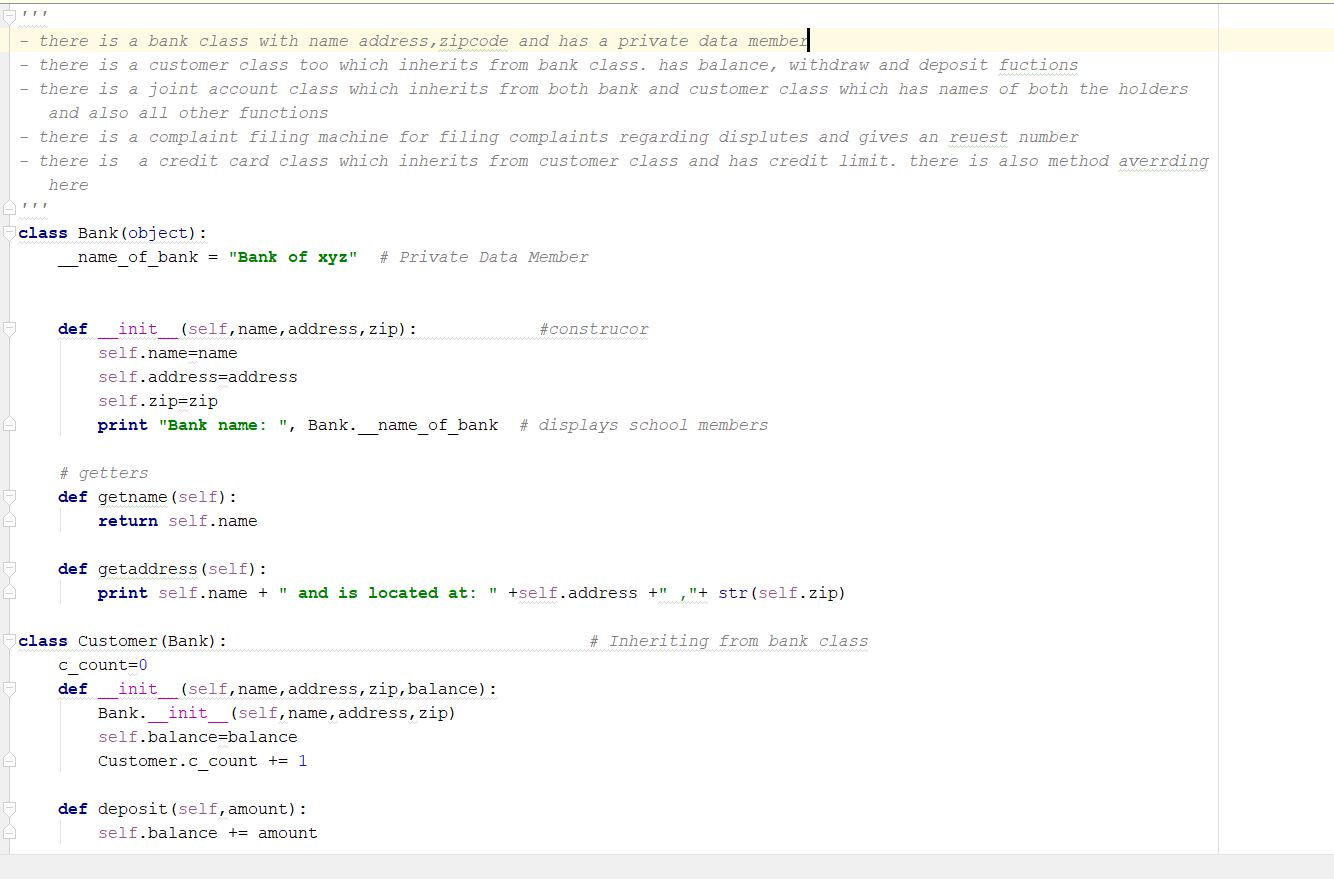
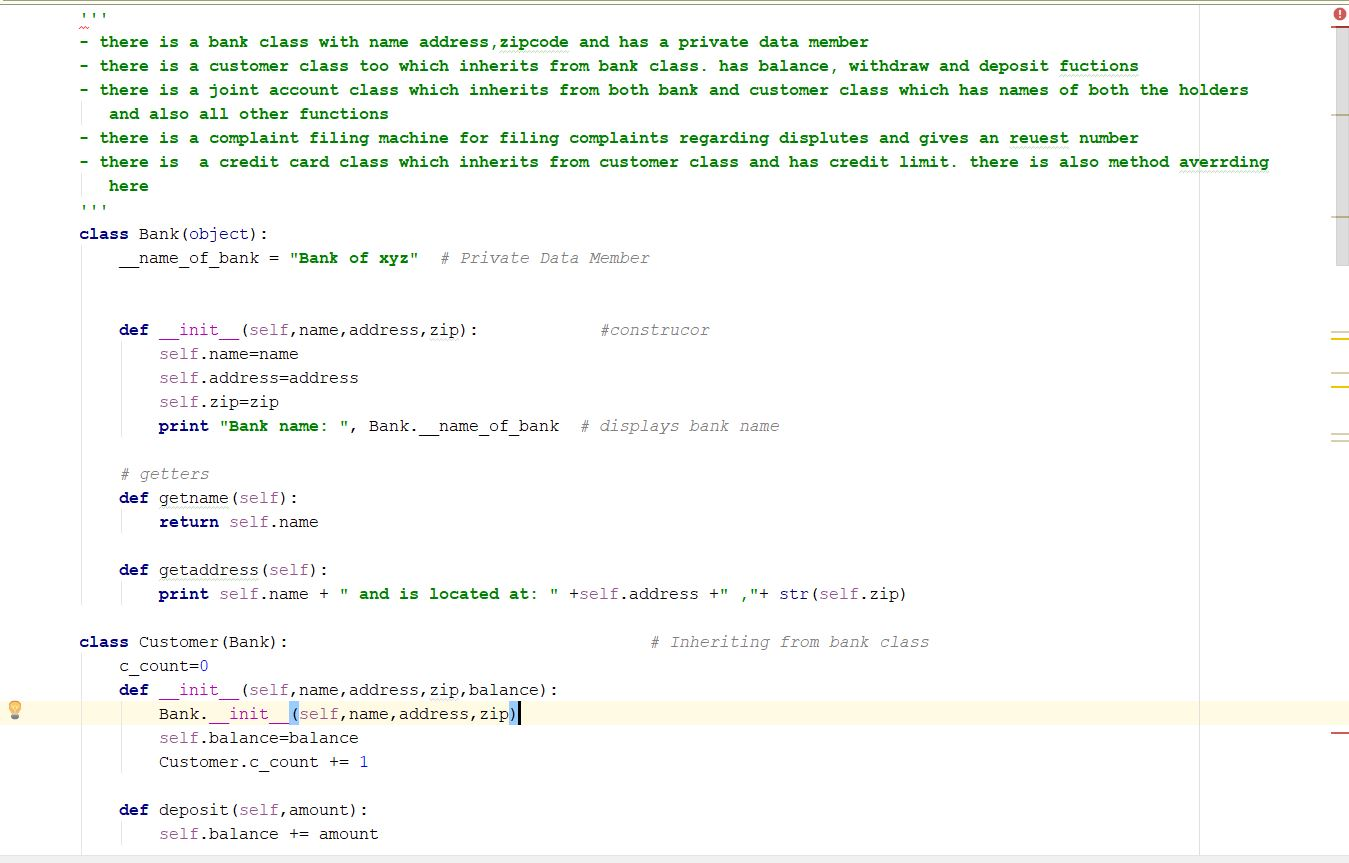
lab-2

diff --git a/lab-2/code/pr3.py b/lab-2/code/pr3.py
@@ -1,113 +1,113 @@
-'''
-- there is a bank class with name address,zipcode and has a private data member
-- there is a customer class too which inherits from bank class. has balance, withdraw and deposit fuctions
-- there is a joint account class which inherits from both bank and customer class which has names of both the holders
-   and also all other functions
-- there is a complaint filing machine for filing complaints regarding displutes and gives an reuest number
-- there is  a credit card class which inherits from customer class and has credit limit. there is also method averrding
-   here
-'''
-class Bank(object):
-    __name_of_bank = "Bank of xyz"  # Private Data Member
+        '''
+        - there is a bank class with name address,zipcode and has a private data member
+        - there is a customer class too which inherits from bank class. has balance, withdraw and deposit fuctions
+        - there is a joint account class which inherits from both bank and customer class which has names of both the holders
+           and also all other functions
+        - there is a complaint filing machine for filing complaints regarding displutes and gives an reuest number
+        - there is  a credit card class which inherits from customer class and has credit limit. there is also method averrding
+           here
+        '''
+        class Bank(object):
+            __name_of_bank = "Bank of xyz"  # Private Data Member
 
 
-    def __init__(self,name,address,zip):            #construcor
-        self.name=name
-        self.address=address
-        self.zip=zip
-        print "Bank name: ", Bank.__name_of_bank  # displays school members
+            def __init__(self,name,address,zip):            #construcor
+                self.name=name
+                self.address=address
+                self.zip=zip
+                print "Bank name: ", Bank.__name_of_bank  # displays bank name
 
-    # getters
-    def getname(self):
-        return self.name
+            # getters
+            def getname(self):
+                return self.name
 
-    def getaddress(self):
-        print self.name + " and is located at: " +self.address +" ,"+ str(self.zip)
+            def getaddress(self):
+                print self.name + " and is located at: " +self.address +" ,"+ str(self.zip)
 
-class Customer(Bank):                                    # Inheriting from bank class
-    c_count=0
-    def __init__(self,name,address,zip,balance):
-        Bank.__init__(self,name,address,zip)
-        self.balance=balance
-        Customer.c_count += 1
+        class Customer(Bank):                                    # Inheriting from bank class
+            c_count=0
+            def __init__(self,name,address,zip,balance):
+                Bank.__init__(self,name,address,zip)
+                self.balance=balance
+                Customer.c_count += 1
 
-    def deposit(self,amount):
-        self.balance += amount
+            def deposit(self,amount):
+                self.balance += amount
 
-    def withdraw(self,amount):
-        if self.amount>self.balance:
-            print "Your balance is not sufficient"
-        else:
-            self.balance -= amount
+            def withdraw(self,amount):
+                if self.amount>self.balance:
+                    print "Your balance is not sufficient"
+                else:
+                    self.balance -= amount
 
-    def getbalance(self):
-        return self.balance
+            def getbalance(self):
+                return self.balance
 
-    def no_customers(self):
-        print "the number of customers are: "+Customer.c_count
+            def no_customers(self):
+                print "the number of customers are: "+Customer.c_count
 
-    def c_display(self):
-        print "the name of customer is" +self.getname()
+            def c_display(self):
+                print "the name of customer is" +self.getname()
 
-class Joint_account(Customer,Bank):                            #multiple inheritance
-    def __init__(self,first_person,second_person):
-        super(Joint_account,self).__init__()                   # Using super class
-        self.first_person=first_person
-        self.second_person=second_person
+        class Joint_account(Customer,Bank):                            #multiple inheritance
+            def __init__(self,first_person,second_person):
+                super(Joint_account,self).__init__()                   # Using super class
+                self.first_person=first_person
+                self.second_person=second_person
 
-    def get_names(self):
-        print "the account names are: " +self.first_person + " and " +self.second_person
+            def get_names(self):
+                print "the account names are: " +self.first_person + " and " +self.second_person
 
-class Credit_Card:                                    # inheriting from customer class
-    def __init__(self,credit_limit,name,address,zip):
-        self.credit_limit=credit_limit
+        class Credit_Card:                                    # inheriting from customer class
+            def __init__(self,credit_limit,name,address,zip):
+                self.credit_limit=credit_limit
 
-    def withdraw(self,amount):                                  # method overriding
-        if amount>self.credit_limit:
-            print "your credit limit exceeded"
-        else:
-            self.credit_limit -= amount
+            def withdraw(self,amount):                                  # method overriding
+                if amount>self.credit_limit:
+                    print "your credit limit exceeded"
+                else:
+                    self.credit_limit -= amount
 
-    def deposit(self,amount):
-        self.credit_limit += amount
+            def deposit(self,amount):
+                self.credit_limit += amount
 
-    def get_credit_limit(self):
-        return self.credit_limit
+            def get_credit_limit(self):
+                return self.credit_limit
 
-class Complaint:
-    complaint_id=0
-    def __init__(self,name,id_type,acc_no):        # cid is complaint id type and acc_no is account number
-        self.name=name
-        self.id_type=id_type
-        self.acc_no=acc_no
+        class Complaint:
+            complaint_id=0
+            def __init__(self,name,id_type,acc_no):        # cid is complaint id type and acc_no is account number
+                self.name=name
+                self.id_type=id_type
+                self.acc_no=acc_no
 
-    def get_cmp(self):
-        print "Hello " + self.name +" your complaint of id-type: " + str(self.id_type) +\
-              " ,with account number: "+ \
-              str(self.acc_no) + " is registered"
+            def get_cmp(self):
+                print "Hello " + self.name +" your complaint of id-type: " + str(self.id_type) +\
+                      " ,with account number: "+ \
+                      str(self.acc_no) + " is registered"
 
-# instance for bank
-b=Bank("bank of xyz","abc,Kansas City, Missouri",11111)
-b.getname()
-b.getaddress()
+        # instance for bank
+        b=Bank("bank of xyz","abc,Kansas City, Missouri",11111)
+        b.getname()
+        b.getaddress()
 
-#creating instance for cutomer and showing 2000 deposit + intial balance 200 =2200
-c=Customer("mani",4511,64110,200)
-c.deposit(2000)
-print c.getbalance()
+        #creating instance for cutomer and showing 2000 deposit + intial balance 200 =2200
+        c=Customer("mani",4511,64110,200)
+        c.deposit(2000)
+        print c.getbalance()
 
-# isntance for complaint
-comp=Complaint("mani",15,"200123")
-comp.get_cmp()
+        # isntance for complaint
+        comp=Complaint("mani",15,"200123")
+        comp.get_cmp()
 
-#instance for credit card
-c=Credit_Card(3000,"mani","xxx,Kansas City,MO",64110)
-c.withdraw(3100)
-
-
+        #instance for credit card
+        c=Credit_Card(3000,"mani","xxx,Kansas City,MO",64110)
+        c.withdraw(3100)
 
 
-        
+
+
+
 
 
 
